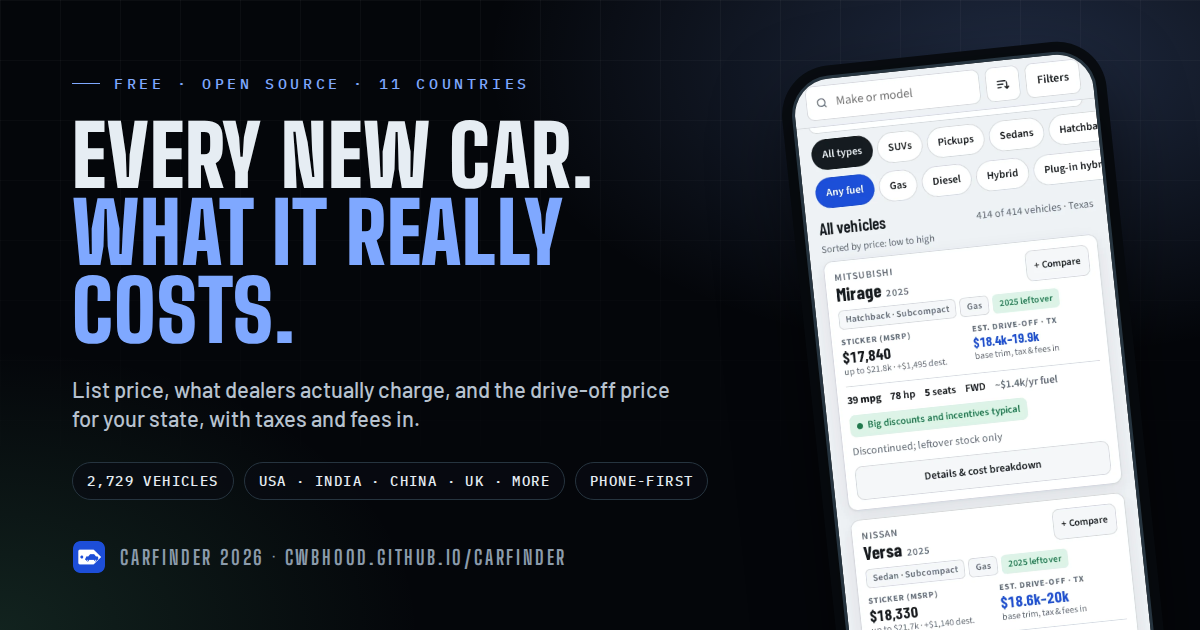
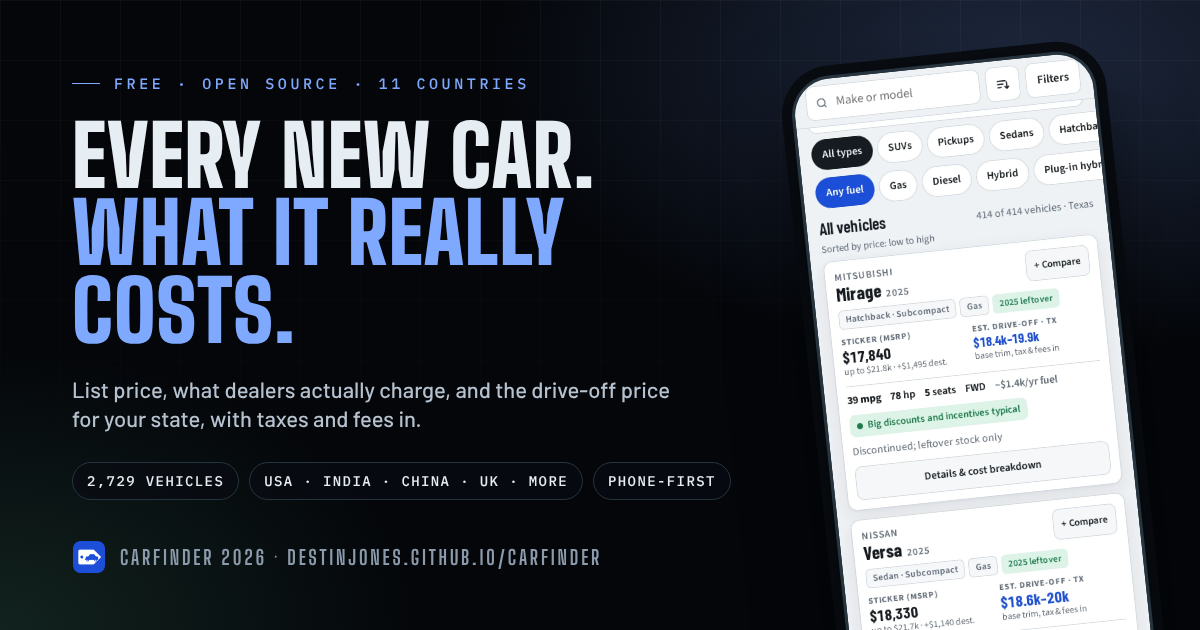
Switch GitHub username cwbhood to destinjones (#1)
Updates site, README, citation and build links, rebuilds carfinder.html
and re-renders the social card, which showed cwbhood.github.io/carfinder.

Claude-Session: https://claude.ai/code/session_01QohTuXHP1CFsDijBaxGX9V

diff --git a/about.html b/about.html
@@ -8,32 +8,32 @@
 <meta name="description" content="Destin Jones vibe coded CarFinder with Claude: a free, open source car finder for 11 countries with list, dealer and drive-off prices. He also created Open Overwatch and Ironbound, all built in public.">
 <meta name="author" content="Destin Jones">
 <meta name="robots" content="index, follow, max-image-preview:large">
-<link rel="canonical" href="https://cwbhood.github.io/carfinder/about.html">
+<link rel="canonical" href="https://destinjones.github.io/carfinder/about.html">
 <link rel="icon" href="brand/emblem/favicon.svg" type="image/svg+xml">
 <link rel="apple-touch-icon" href="brand/emblem/apple-touch-icon.png">
 <meta property="og:type" content="profile">
 <meta property="og:site_name" content="CarFinder 2026">
 <meta property="og:title" content="About the creator, Destin Jones | CarFinder 2026">
 <meta property="og:description" content="Destin Jones builds free, open source projects in public with Claude as the building partner: CarFinder, Open Overwatch and Ironbound.">
-<meta property="og:url" content="https://cwbhood.github.io/carfinder/about.html">
-<meta property="og:image" content="https://cwbhood.github.io/carfinder/brand/social/og-1200x630.png">
+<meta property="og:url" content="https://destinjones.github.io/carfinder/about.html">
+<meta property="og:image" content="https://destinjones.github.io/carfinder/brand/social/og-1200x630.png">
 <meta property="og:image:width" content="1200"><meta property="og:image:height" content="630">
-<meta property="profile:username" content="cwbhood">
+<meta property="profile:username" content="destinjones">
 <meta name="twitter:card" content="summary_large_image">
 <meta name="twitter:title" content="About the creator, Destin Jones | CarFinder 2026">
 <meta name="twitter:description" content="Open source projects vibe coded with Claude, built in public: CarFinder, Open Overwatch and Ironbound.">
-<meta name="twitter:image" content="https://cwbhood.github.io/carfinder/brand/social/og-1200x630.png">
+<meta name="twitter:image" content="https://destinjones.github.io/carfinder/brand/social/og-1200x630.png">
 <script type="application/ld+json">
 {"@context":"https://schema.org","@graph":[
- {"@type":"Person","@id":"https://cwbhood.github.io/carfinder/about.html#destin","name":"Destin Jones","url":"https://cwbhood.github.io/carfinder/about.html",
-  "image":"https://cwbhood.github.io/carfinder/brand/about/destin-640.webp",
+ {"@type":"Person","@id":"https://destinjones.github.io/carfinder/about.html#destin","name":"Destin Jones","url":"https://destinjones.github.io/carfinder/about.html",
+  "image":"https://destinjones.github.io/carfinder/brand/about/destin-640.webp",
   "description":"Creator of the open source projects CarFinder, Open Overwatch and Ironbound, vibe coded in public with Claude as the building partner.",
-  "sameAs":["https://github.com/cwbhood","https://cwbhood.github.io/open-overwatch/about.html","https://cwbhood.github.io/godot-open-rts/about.html"],
+  "sameAs":["https://github.com/destinjones","https://destinjones.github.io/open-overwatch/about.html","https://destinjones.github.io/godot-open-rts/about.html"],
   "knowsAbout":["open source software","AI-assisted software development","web applications","Godot Engine","web mapping"]},
- {"@type":"WebApplication","name":"CarFinder 2026","applicationCategory":"ReferenceApplication","operatingSystem":"Any (web browser)","url":"https://cwbhood.github.io/carfinder/",
-  "description":"Every new car and truck on sale in 11 countries with list, dealer and on-road prices for the buyer's state or city.","offers":{"@type":"Offer","price":"0","priceCurrency":"USD"},"creator":{"@id":"https://cwbhood.github.io/carfinder/about.html#destin"},
-  "codeRepository":"https://github.com/cwbhood/carfinder","license":"https://opensource.org/licenses/MIT"},
- {"@type":"BreadcrumbList","itemListElement":[{"@type":"ListItem","position":1,"name":"CarFinder 2026","item":"https://cwbhood.github.io/carfinder/"},{"@type":"ListItem","position":2,"name":"About the creator","item":"https://cwbhood.github.io/carfinder/about.html"}]}
+ {"@type":"WebApplication","name":"CarFinder 2026","applicationCategory":"ReferenceApplication","operatingSystem":"Any (web browser)","url":"https://destinjones.github.io/carfinder/",
+  "description":"Every new car and truck on sale in 11 countries with list, dealer and on-road prices for the buyer's state or city.","offers":{"@type":"Offer","price":"0","priceCurrency":"USD"},"creator":{"@id":"https://destinjones.github.io/carfinder/about.html#destin"},
+  "codeRepository":"https://github.com/destinjones/carfinder","license":"https://opensource.org/licenses/MIT"},
+ {"@type":"BreadcrumbList","itemListElement":[{"@type":"ListItem","position":1,"name":"CarFinder 2026","item":"https://destinjones.github.io/carfinder/"},{"@type":"ListItem","position":2,"name":"About the creator","item":"https://destinjones.github.io/carfinder/about.html"}]}
 ]}
 </script>
 <link rel="stylesheet" href="brand/fonts/fonts.css">
@@ -101,7 +101,7 @@ footer .wrap{display:grid;grid-template-columns:1fr 1fr;gap:30px} footer p{margi
 <nav aria-label="Main">
   <div class="wrap">
     <a class="brand" href="./"><img src="brand/emblem/emblem-256.png" alt="">CarFinder</a>
-    <div class="links"><a href="index.html#features">Features</a><a href="index.html#how">How to use</a><a href="about.html" aria-current="page">About</a><a href="https://github.com/cwbhood/carfinder">GitHub</a><a class="go" href="carfinder.html">Open CarFinder</a></div>
+    <div class="links"><a href="index.html#features">Features</a><a href="index.html#how">How to use</a><a href="about.html" aria-current="page">About</a><a href="https://github.com/destinjones/carfinder">GitHub</a><a class="go" href="carfinder.html">Open CarFinder</a></div>
   </div>
 </nav>
 
@@ -116,9 +116,9 @@ footer .wrap{display:grid;grid-template-columns:1fr 1fr;gap:30px} footer p{margi
       <p class="lede">CarFinder was vibe coded using Claude. I set the direction and make the calls, Claude researches and builds it, and all of it ships in the open so anyone can read it, fork it and take it further.</p>
       <div class="cta">
         <a class="btn primary" href="carfinder.html">Open CarFinder</a>
-        <a class="btn" href="https://cwbhood.github.io/open-overwatch/">Open Overwatch</a>
-        <a class="btn" href="https://cwbhood.github.io/godot-open-rts/">Play Ironbound</a>
-        <a class="btn" href="https://github.com/cwbhood">GitHub profile</a>
+        <a class="btn" href="https://destinjones.github.io/open-overwatch/">Open Overwatch</a>
+        <a class="btn" href="https://destinjones.github.io/godot-open-rts/">Play Ironbound</a>
+        <a class="btn" href="https://github.com/destinjones">GitHub profile</a>
       </div>
     </div>
     <figure class="portrait">
@@ -146,19 +146,19 @@ footer .wrap{display:grid;grid-template-columns:1fr 1fr;gap:30px} footer p{margi
         <span class="tag">Open source · web app · 2026</span>
         <h3>CarFinder 2026</h3>
         <p>Every new car and truck on sale in the USA, India, China, the UK, Australia, Mexico, Spain, Thailand, Russia, Brazil and Canada: list price, what dealers actually charge, and the drive-off price for your state with taxes and fees in. Filters, a four-question helper, cost breakdowns, compare, MPG and miles for everyone. One page, no account.</p>
-        <div class="row"><a class="lnk" href="carfinder.html">Open it</a><a class="lnk" href="https://github.com/cwbhood/carfinder">Source</a><a class="lnk" href="index.html#how">How to use</a></div>
+        <div class="row"><a class="lnk" href="carfinder.html">Open it</a><a class="lnk" href="https://github.com/destinjones/carfinder">Source</a><a class="lnk" href="index.html#how">How to use</a></div>
       </article>
       <article class="card" style="--c:var(--ow)">
         <span class="tag">Open source · live map · 2026</span>
         <h3>Open Overwatch</h3>
         <p>A live view of the whole planet on open data: aircraft, satellites, weather, quakes, and one continuous zoom from a street out through the Solar System and the cosmic web to the Local Group. A 2D map, a 3D Earth and a Solar System view, on a phone or a PC, with no account and no tracking.</p>
-        <div class="row"><a class="lnk" href="https://cwbhood.github.io/open-overwatch/">Website</a><a class="lnk" href="https://github.com/cwbhood/open-overwatch">Source</a><a class="lnk" href="https://cwbhood.github.io/open-overwatch/about.html">About Open Overwatch</a></div>
+        <div class="row"><a class="lnk" href="https://destinjones.github.io/open-overwatch/">Website</a><a class="lnk" href="https://github.com/destinjones/open-overwatch">Source</a><a class="lnk" href="https://destinjones.github.io/open-overwatch/about.html">About Open Overwatch</a></div>
       </article>
       <article class="card" style="--c:var(--mil)">
         <span class="tag">Open source · game · Godot 4.7</span>
         <h3>Ironbound</h3>
         <p>A free real-time strategy game where the city builds itself. You run the mines and oil derricks, the supply lines and power, trade with rival factions, and the army that holds the frontier. A fork of Open RTS, now a game with a self-building city, trade, diplomacy, weather and a scripted test harness.</p>
-        <div class="row"><a class="lnk" href="https://cwbhood.github.io/godot-open-rts/">Website</a><a class="lnk" href="https://github.com/cwbhood/godot-open-rts">Source</a><a class="lnk" href="https://cwbhood.github.io/godot-open-rts/about.html">About Ironbound</a></div>
+        <div class="row"><a class="lnk" href="https://destinjones.github.io/godot-open-rts/">Website</a><a class="lnk" href="https://github.com/destinjones/godot-open-rts">Source</a><a class="lnk" href="https://destinjones.github.io/godot-open-rts/about.html">About Ironbound</a></div>
       </article>
     </div>
     <div class="stats" aria-label="CarFinder by the numbers">
@@ -178,7 +178,7 @@ footer .wrap{display:grid;grid-template-columns:1fr 1fr;gap:30px} footer p{margi
       <div><h3>Open by default</h3><p>Code, data, tax research notes, tests and design notes live in the repository. Anyone can read how a number was computed, and why.</p></div>
       <div><h3>Vibe coded with Claude</h3><p>Claude does the research and the heavy lifting on code and content. A person sets the goals, reviews the work and owns the decisions, including what ships and when.</p></div>
       <div><h3>Small, testable steps</h3><p>Every dataset row is validated, the pricing core is run for every car in every region, known real-world quotes are asserted, and the page is driven headlessly at phone and desktop widths before it ships.</p></div>
-      <div><h3>Honest about the numbers</h3><p>Dealer prices are bands, taxes follow the published rules on the compile date, exchange rates are dated, and each tab ends with a plain-language note on what was assumed. Wrong price? <a href="https://github.com/cwbhood/carfinder/issues">Open an issue.</a></p></div>
+      <div><h3>Honest about the numbers</h3><p>Dealer prices are bands, taxes follow the published rules on the compile date, exchange rates are dated, and each tab ends with a plain-language note on what was assumed. Wrong price? <a href="https://github.com/destinjones/carfinder/issues">Open an issue.</a></p></div>
     </div>
   </div>
 </section>
@@ -188,11 +188,11 @@ footer .wrap{display:grid;grid-template-columns:1fr 1fr;gap:30px} footer p{margi
     <div class="eyebrow">Use it, credit it</div>
     <h2 id="credit-h">Credit and contact</h2>
     <p class="note">CarFinder is free to use, read, fork and build on under the MIT licence. All that is asked is that the copyright line stays with the code. If you write about it, teach with it or build on it, please credit it like this:</p>
-    <pre class="cite" tabindex="0">Jones, D. (2026). CarFinder 2026 [Computer software]. https://github.com/cwbhood/carfinder</pre>
-    <p class="note">The repository has a <a href="https://github.com/cwbhood/carfinder/blob/main/CITATION.cff">CITATION.cff</a>, so GitHub's “Cite this repository” button gives the same reference in BibTeX and APA. Vehicle prices and specifications belong to their manufacturers and are compiled here for reference; the fonts are under the SIL Open Font License.</p>
+    <pre class="cite" tabindex="0">Jones, D. (2026). CarFinder 2026 [Computer software]. https://github.com/destinjones/carfinder</pre>
+    <p class="note">The repository has a <a href="https://github.com/destinjones/carfinder/blob/main/CITATION.cff">CITATION.cff</a>, so GitHub's “Cite this repository” button gives the same reference in BibTeX and APA. Vehicle prices and specifications belong to their manufacturers and are compiled here for reference; the fonts are under the SIL Open Font License.</p>
     <div class="cta">
-      <a class="btn" href="https://github.com/cwbhood">Find me on GitHub</a>
-      <a class="btn" href="https://github.com/cwbhood/carfinder/issues">Report a wrong price or suggest something</a>
+      <a class="btn" href="https://github.com/destinjones">Find me on GitHub</a>
+      <a class="btn" href="https://github.com/destinjones/carfinder/issues">Report a wrong price or suggest something</a>
     </div>
   </div>
 </section>
@@ -206,8 +206,8 @@ footer .wrap{display:grid;grid-template-columns:1fr 1fr;gap:30px} footer p{margi
     </div>
     <div>
       <p><a href="./">Home</a> · <a href="carfinder.html">Open CarFinder</a> · <a href="index.html#how">How to use</a> · <a href="index.html#countries">Countries</a></p>
-      <p><a href="https://github.com/cwbhood/carfinder">Source on GitHub</a> · <a href="https://github.com/cwbhood/carfinder/issues">Report a wrong price</a> · <a href="https://github.com/cwbhood/carfinder/blob/main/LICENSE">MIT licence</a></p>
-      <p>Also by me: <a href="https://cwbhood.github.io/open-overwatch/">Open Overwatch</a> and <a href="https://cwbhood.github.io/godot-open-rts/">Ironbound</a>.</p>
+      <p><a href="https://github.com/destinjones/carfinder">Source on GitHub</a> · <a href="https://github.com/destinjones/carfinder/issues">Report a wrong price</a> · <a href="https://github.com/destinjones/carfinder/blob/main/LICENSE">MIT licence</a></p>
+      <p>Also by me: <a href="https://destinjones.github.io/open-overwatch/">Open Overwatch</a> and <a href="https://destinjones.github.io/godot-open-rts/">Ironbound</a>.</p>
     </div>
   </div>
 </footer>

diff --git a/index.html b/index.html
@@ -5,7 +5,7 @@
 <meta name="viewport" content="width=device-width, initial-scale=1, viewport-fit=cover">
 <meta name="theme-color" content="#04060a">
 <title>CarFinder 2026 · every new car, what it really costs</title>
-<link rel="canonical" href="https://cwbhood.github.io/carfinder/">
+<link rel="canonical" href="https://destinjones.github.io/carfinder/">
 <meta name="robots" content="index, follow, max-image-preview:large">
 <meta name="author" content="Destin Jones">
 <meta name="description" content="A free, open source car finder for 11 countries: every new car and truck on sale with its list price, what dealers really charge, and the drive-off price for your state or city with taxes and fees in. Filters, compare, MPG and EV range. No account, no ads.">
@@ -13,22 +13,22 @@
 <link rel="apple-touch-icon" href="brand/emblem/apple-touch-icon.png">
 <meta property="og:type" content="website">
 <meta property="og:site_name" content="CarFinder 2026">
-<meta property="og:url" content="https://cwbhood.github.io/carfinder/">
+<meta property="og:url" content="https://destinjones.github.io/carfinder/">
 <meta property="og:title" content="CarFinder 2026 · every new car, what it really costs">
 <meta property="og:description" content="2,729 new cars and trucks across 11 countries: list price, dealer price, and the drive-off price for your state with taxes and fees in. Free, open source, runs in your browser.">
-<meta property="og:image" content="https://cwbhood.github.io/carfinder/brand/social/og-1200x630.png">
+<meta property="og:image" content="https://destinjones.github.io/carfinder/brand/social/og-1200x630.png">
 <meta property="og:image:width" content="1200"><meta property="og:image:height" content="630">
 <meta property="og:image:alt" content="CarFinder 2026: a phone showing the US car list with sticker and drive-off prices">
 <meta name="twitter:card" content="summary_large_image">
 <meta name="twitter:title" content="CarFinder 2026 · every new car, what it really costs">
 <meta name="twitter:description" content="2,729 new cars and trucks across 11 countries with list, dealer and drive-off prices for your state. Free, open source, in your browser.">
-<meta name="twitter:image" content="https://cwbhood.github.io/carfinder/brand/social/og-1200x630.png">
+<meta name="twitter:image" content="https://destinjones.github.io/carfinder/brand/social/og-1200x630.png">
 <script type="application/ld+json">
 {"@context":"https://schema.org","@graph":[
- {"@type":"WebSite","@id":"https://cwbhood.github.io/carfinder/#site","name":"CarFinder 2026","url":"https://cwbhood.github.io/carfinder/","description":"Every new car and truck on sale in 11 countries with list, dealer and on-road prices for your state or city.","publisher":{"@id":"https://cwbhood.github.io/carfinder/about.html#destin"}},
- {"@type":"WebApplication","name":"CarFinder 2026","applicationCategory":"ReferenceApplication","operatingSystem":"Any (web browser)","url":"https://cwbhood.github.io/carfinder/carfinder.html","offers":{"@type":"Offer","price":"0","priceCurrency":"USD"},
-  "description":"2,729 new cars and trucks across the USA, India, China, the UK, Australia, Mexico, Spain, Thailand, Russia, Brazil and Canada, each with list price, typical dealer price and an estimated on-road price for the buyer's state or city.","codeRepository":"https://github.com/cwbhood/carfinder","license":"https://opensource.org/licenses/MIT","creator":{"@id":"https://cwbhood.github.io/carfinder/about.html#destin"},"screenshot":"https://cwbhood.github.io/carfinder/brand/social/og-1200x630.png"},
- {"@type":"Person","@id":"https://cwbhood.github.io/carfinder/about.html#destin","name":"Destin Jones","url":"https://cwbhood.github.io/carfinder/about.html","sameAs":["https://github.com/cwbhood","https://cwbhood.github.io/open-overwatch/about.html"]}
+ {"@type":"WebSite","@id":"https://destinjones.github.io/carfinder/#site","name":"CarFinder 2026","url":"https://destinjones.github.io/carfinder/","description":"Every new car and truck on sale in 11 countries with list, dealer and on-road prices for your state or city.","publisher":{"@id":"https://destinjones.github.io/carfinder/about.html#destin"}},
+ {"@type":"WebApplication","name":"CarFinder 2026","applicationCategory":"ReferenceApplication","operatingSystem":"Any (web browser)","url":"https://destinjones.github.io/carfinder/carfinder.html","offers":{"@type":"Offer","price":"0","priceCurrency":"USD"},
+  "description":"2,729 new cars and trucks across the USA, India, China, the UK, Australia, Mexico, Spain, Thailand, Russia, Brazil and Canada, each with list price, typical dealer price and an estimated on-road price for the buyer's state or city.","codeRepository":"https://github.com/destinjones/carfinder","license":"https://opensource.org/licenses/MIT","creator":{"@id":"https://destinjones.github.io/carfinder/about.html#destin"},"screenshot":"https://destinjones.github.io/carfinder/brand/social/og-1200x630.png"},
+ {"@type":"Person","@id":"https://destinjones.github.io/carfinder/about.html#destin","name":"Destin Jones","url":"https://destinjones.github.io/carfinder/about.html","sameAs":["https://github.com/destinjones","https://destinjones.github.io/open-overwatch/about.html"]}
 ]}
 </script>
 <link rel="stylesheet" href="brand/fonts/fonts.css">
@@ -142,7 +142,7 @@ footer .wrap{display:grid;grid-template-columns:1fr 1fr;gap:30px} footer p{margi
 <nav aria-label="Main">
   <div class="wrap">
     <a class="brand" href="./"><img src="brand/emblem/emblem-256.png" alt="">CarFinder</a>
-    <div class="links"><a href="#features">Features</a><a href="#how">How to use</a><a href="#countries">Countries</a><a href="about.html">About</a><a href="https://github.com/cwbhood/carfinder">GitHub</a><a class="go" href="carfinder.html">Open CarFinder</a></div>
+    <div class="links"><a href="#features">Features</a><a href="#how">How to use</a><a href="#countries">Countries</a><a href="about.html">About</a><a href="https://github.com/destinjones/carfinder">GitHub</a><a class="go" href="carfinder.html">Open CarFinder</a></div>
   </div>
 </nav>
 
@@ -158,12 +158,12 @@ footer .wrap{display:grid;grid-template-columns:1fr 1fr;gap:30px} footer p{margi
       <div class="cta">
         <a class="btn primary" href="carfinder.html">Open CarFinder</a>
         <a class="btn" href="#how">How to use it</a>
-        <a class="btn" href="https://github.com/cwbhood/carfinder">Source on GitHub</a>
+        <a class="btn" href="https://github.com/destinjones/carfinder">Source on GitHub</a>
       </div>
       <p class="fine">Prices compiled 29 September 2026 · estimates to bargain within, not quotes</p>
     </div>
     <div class="devices" aria-hidden="true">
-      <div class="browser"><div class="bar"><i></i><i></i><i></i><span>cwbhood.github.io/carfinder</span></div><img src="brand/shots/desktop-us.webp" width="1280" height="800" alt="" fetchpriority="high"></div>
+      <div class="browser"><div class="bar"><i></i><i></i><i></i><span>destinjones.github.io/carfinder</span></div><img src="brand/shots/desktop-us.webp" width="1280" height="800" alt="" fetchpriority="high"></div>
       <div class="phone"><img src="brand/shots/phone-us-dark.webp" width="390" height="844" alt="" loading="lazy"></div>
     </div>
   </div>
@@ -267,13 +267,13 @@ footer .wrap{display:grid;grid-template-columns:1fr 1fr;gap:30px} footer p{margi
       <div><h3>Estimates, labelled as estimates</h3><p>Dealer prices are bands by demand level, not quotes. Taxes follow the published rules on the compile date. Every tab ends with a plain-language note on what was assumed, and models with provisional pricing carry a <em>Preliminary</em> tag.</p></div>
     </div>
     <div style="margin-top:34px">
-      <pre class="code" tabindex="0">git clone https://github.com/cwbhood/carfinder
+      <pre class="code" tabindex="0">git clone https://github.com/destinjones/carfinder
 cd carfinder
 node src/build.js        # stitches src/ + data/ into carfinder.html
 node --test              # schema checks, pricing core, known quotes
 python3 -m http.server   # then open http://localhost:8000/</pre>
     </div>
-    <p class="warn"><b>Use it as a starting point, not a quote.</b> Prices were compiled on 29 September 2026 from manufacturer price lists and the main listing sites in each country; incentives, fuel prices and exchange rates move monthly and tax rules change with budgets. Always get the out-the-door price in writing from two or three dealers. If you spot a wrong price or rate, <a href="https://github.com/cwbhood/carfinder/issues">open an issue</a> or fix the JSON and send a pull request.</p>
+    <p class="warn"><b>Use it as a starting point, not a quote.</b> Prices were compiled on 29 September 2026 from manufacturer price lists and the main listing sites in each country; incentives, fuel prices and exchange rates move monthly and tax rules change with budgets. Always get the out-the-door price in writing from two or three dealers. If you spot a wrong price or rate, <a href="https://github.com/destinjones/carfinder/issues">open an issue</a> or fix the JSON and send a pull request.</p>
   </div>
 </section>
 
@@ -286,10 +286,10 @@ python3 -m http.server   # then open http://localhost:8000/</pre>
       <div class="eyebrow">Made in the open</div>
       <h2 id="maker-h">By Destin Jones</h2>
       <p class="lede">I vibe coded CarFinder with Claude. I had the question every first-time buyer has, “what will this actually cost me?”, and instead of googling it fifty times I described the tool I wanted and we built it together: I set the direction and made the calls, Claude did the research and the heavy lifting on the code, and all of it ships here in the open.</p>
-      <p class="sub">Same way I built <a href="https://cwbhood.github.io/open-overwatch/">Open Overwatch</a>, a live map of the whole planet, and <a href="https://cwbhood.github.io/godot-open-rts/">Ironbound</a>, an open source RTS. Read it, fork it, fix a price, take it further.</p>
+      <p class="sub">Same way I built <a href="https://destinjones.github.io/open-overwatch/">Open Overwatch</a>, a live map of the whole planet, and <a href="https://destinjones.github.io/godot-open-rts/">Ironbound</a>, an open source RTS. Read it, fork it, fix a price, take it further.</p>
       <div class="cta">
         <a class="btn primary" href="about.html">About the creator</a>
-        <a class="btn" href="https://github.com/cwbhood">GitHub profile</a>
+        <a class="btn" href="https://github.com/destinjones">GitHub profile</a>
       </div>
     </div>
   </div>
@@ -304,8 +304,8 @@ python3 -m http.server   # then open http://localhost:8000/</pre>
     </div>
     <div>
       <p><a href="carfinder.html">Open CarFinder</a> · <a href="#how">How to use</a> · <a href="#countries">Countries</a> · <a href="about.html">About</a></p>
-      <p><a href="https://github.com/cwbhood/carfinder">Source on GitHub</a> · <a href="https://github.com/cwbhood/carfinder/issues">Report a wrong price</a> · <a href="https://github.com/cwbhood/carfinder/blob/main/LICENSE">MIT licence</a></p>
-      <p>Also by me: <a href="https://cwbhood.github.io/open-overwatch/">Open Overwatch</a> and <a href="https://cwbhood.github.io/godot-open-rts/">Ironbound</a>.</p>
+      <p><a href="https://github.com/destinjones/carfinder">Source on GitHub</a> · <a href="https://github.com/destinjones/carfinder/issues">Report a wrong price</a> · <a href="https://github.com/destinjones/carfinder/blob/main/LICENSE">MIT licence</a></p>
+      <p>Also by me: <a href="https://destinjones.github.io/open-overwatch/">Open Overwatch</a> and <a href="https://destinjones.github.io/godot-open-rts/">Ironbound</a>.</p>
     </div>
   </div>
 </footer>

diff --git a/carfinder.html b/carfinder.html
@@ -9,23 +9,23 @@
 <meta name="description" content="Every new car and truck on sale in the USA, India, China, the UK, Australia, Mexico, Spain, Thailand, Russia, Brazil and Canada: list price, what dealers really charge, and the on-road price for your state or city. Filters, compare, MPG and EV range. Free, open source, no account.">
 <meta name="author" content="Destin Jones">
 <meta name="robots" content="index, follow, max-image-preview:large">
-<link rel="canonical" href="https://cwbhood.github.io/carfinder/carfinder.html">
+<link rel="canonical" href="https://destinjones.github.io/carfinder/carfinder.html">
 <link rel="icon" href="brand/emblem/favicon.svg" type="image/svg+xml">
 <link rel="apple-touch-icon" href="brand/emblem/apple-touch-icon.png">
 <meta property="og:type" content="website">
 <meta property="og:site_name" content="CarFinder 2026">
-<meta property="og:url" content="https://cwbhood.github.io/carfinder/carfinder.html">
+<meta property="og:url" content="https://destinjones.github.io/carfinder/carfinder.html">
 <meta property="og:title" content="CarFinder 2026 · every new car, what it really costs">
 <meta property="og:description" content="Every new car and truck on sale in the USA, India, China, the UK, Australia, Mexico, Spain, Thailand, Russia, Brazil and Canada: list price, what dealers really charge, and the on-road price for your state or city. Filters, compare, MPG and EV range. Free, open source, no account.">
-<meta property="og:image" content="https://cwbhood.github.io/carfinder/brand/social/og-1200x630.png">
+<meta property="og:image" content="https://destinjones.github.io/carfinder/brand/social/og-1200x630.png">
 <meta property="og:image:width" content="1200"><meta property="og:image:height" content="630">
 <meta name="twitter:card" content="summary_large_image">
 <meta name="twitter:title" content="CarFinder 2026 · every new car, what it really costs">
 <meta name="twitter:description" content="Every new car and truck on sale in the USA, India, China, the UK, Australia, Mexico, Spain, Thailand, Russia, Brazil and Canada: list price, what dealers really charge, and the on-road price for your state or city. Filters, compare, MPG and EV range. Free, open source, no account.">
-<meta name="twitter:image" content="https://cwbhood.github.io/carfinder/brand/social/og-1200x630.png">
+<meta name="twitter:image" content="https://destinjones.github.io/carfinder/brand/social/og-1200x630.png">
 <link rel="stylesheet" href="brand/fonts/fonts.css">
 <script type="application/ld+json">
-{"@context":"https://schema.org","@type":"WebApplication","name":"CarFinder 2026","url":"https://cwbhood.github.io/carfinder/carfinder.html","applicationCategory":"ReferenceApplication","operatingSystem":"Any (web browser)","browserRequirements":"Requires JavaScript","offers":{"@type":"Offer","price":"0","priceCurrency":"USD"},"description":"Every new car and truck on sale in the USA, India, China, the UK, Australia, Mexico, Spain, Thailand, Russia, Brazil and Canada: list price, what dealers really charge, and the on-road price for your state or city. Filters, compare, MPG and EV range. Free, open source, no account.","creator":{"@type":"Person","name":"Destin Jones","url":"https://cwbhood.github.io/carfinder/about.html"},"codeRepository":"https://github.com/cwbhood/carfinder","license":"https://opensource.org/licenses/MIT"}
+{"@context":"https://schema.org","@type":"WebApplication","name":"CarFinder 2026","url":"https://destinjones.github.io/carfinder/carfinder.html","applicationCategory":"ReferenceApplication","operatingSystem":"Any (web browser)","browserRequirements":"Requires JavaScript","offers":{"@type":"Offer","price":"0","priceCurrency":"USD"},"description":"Every new car and truck on sale in the USA, India, China, the UK, Australia, Mexico, Spain, Thailand, Russia, Brazil and Canada: list price, what dealers really charge, and the on-road price for your state or city. Filters, compare, MPG and EV range. Free, open source, no account.","creator":{"@type":"Person","name":"Destin Jones","url":"https://destinjones.github.io/carfinder/about.html"},"codeRepository":"https://github.com/destinjones/carfinder","license":"https://opensource.org/licenses/MIT"}
 </script>
 </head>
 <body>
@@ -513,7 +513,7 @@ footer.about h2{font-size:20px;font-weight:600;color:var(--fg)}
       <div class="more-row" id="moreRow" hidden><button class="btn" id="btnMore" type="button">Show more</button></div>
       <div class="empty" id="empty" hidden>Nothing matches those filters. Loosen the price range or clear a filter.</div>
       <footer class="about" id="about"></footer>
-      <p class="site-links">CarFinder is free and open source. <a href="./">Project site</a> · <a href="https://github.com/cwbhood/carfinder">Source on GitHub</a> · <a href="about.html">About the creator</a> · <a href="https://github.com/cwbhood/carfinder/issues">Report a wrong price</a></p>
+      <p class="site-links">CarFinder is free and open source. <a href="./">Project site</a> · <a href="https://github.com/destinjones/carfinder">Source on GitHub</a> · <a href="about.html">About the creator</a> · <a href="https://github.com/destinjones/carfinder/issues">Report a wrong price</a></p>
     </main>
   </div>
 </div>

diff --git a/src/build.js b/src/build.js
@@ -12,7 +12,7 @@ const path = require('path');
 const ROOT = path.resolve(__dirname, '..');
 const read = p => fs.readFileSync(path.join(ROOT, p), 'utf8');
 
-const SITE = 'https://cwbhood.github.io/carfinder/';
+const SITE = 'https://destinjones.github.io/carfinder/';
 const DESC = 'Every new car and truck on sale in the USA, India, China, the UK, Australia, Mexico, Spain, Thailand, Russia, Brazil and Canada: list price, what dealers really charge, and the on-road price for your state or city. Filters, compare, MPG and EV range. Free, open source, no account.';
 
 function assemble(){
@@ -62,7 +62,7 @@ function page(body){
 <meta name="twitter:image" content="${SITE}brand/social/og-1200x630.png">
 <link rel="stylesheet" href="brand/fonts/fonts.css">
 <script type="application/ld+json">
-{"@context":"https://schema.org","@type":"WebApplication","name":"CarFinder 2026","url":"${SITE}carfinder.html","applicationCategory":"ReferenceApplication","operatingSystem":"Any (web browser)","browserRequirements":"Requires JavaScript","offers":{"@type":"Offer","price":"0","priceCurrency":"USD"},"description":"${DESC}","creator":{"@type":"Person","name":"Destin Jones","url":"${SITE}about.html"},"codeRepository":"https://github.com/cwbhood/carfinder","license":"https://opensource.org/licenses/MIT"}
+{"@context":"https://schema.org","@type":"WebApplication","name":"CarFinder 2026","url":"${SITE}carfinder.html","applicationCategory":"ReferenceApplication","operatingSystem":"Any (web browser)","browserRequirements":"Requires JavaScript","offers":{"@type":"Offer","price":"0","priceCurrency":"USD"},"description":"${DESC}","creator":{"@type":"Person","name":"Destin Jones","url":"${SITE}about.html"},"codeRepository":"https://github.com/destinjones/carfinder","license":"https://opensource.org/licenses/MIT"}
 </script>
 </head>
 <body>

diff --git a/src/head.html b/src/head.html
@@ -482,7 +482,7 @@ footer.about h2{font-size:20px;font-weight:600;color:var(--fg)}
       <div class="more-row" id="moreRow" hidden><button class="btn" id="btnMore" type="button">Show more</button></div>
       <div class="empty" id="empty" hidden>Nothing matches those filters. Loosen the price range or clear a filter.</div>
       <footer class="about" id="about"></footer>
-      <p class="site-links">CarFinder is free and open source. <a href="./">Project site</a> · <a href="https://github.com/cwbhood/carfinder">Source on GitHub</a> · <a href="about.html">About the creator</a> · <a href="https://github.com/cwbhood/carfinder/issues">Report a wrong price</a></p>
+      <p class="site-links">CarFinder is free and open source. <a href="./">Project site</a> · <a href="https://github.com/destinjones/carfinder">Source on GitHub</a> · <a href="about.html">About the creator</a> · <a href="https://github.com/destinjones/carfinder/issues">Report a wrong price</a></p>
     </main>
   </div>
 </div>

diff --git a/brand/tools/og.html b/brand/tools/og.html
@@ -34,7 +34,7 @@
     <div class="chips"><span>2,729 vehicles</span><span>USA · India · China · UK · more</span><span>Phone-first</span></div>
   </div>
   <div class="phone"><img src="../shots/phone-us-light.webp" alt=""></div>
-  <div class="emblem"><img src="../emblem/emblem-256.png" alt="">CarFinder 2026 · cwbhood.github.io/carfinder</div>
+  <div class="emblem"><img src="../emblem/emblem-256.png" alt="">CarFinder 2026 · destinjones.github.io/carfinder</div>
 </div>
 </body>
 </html>

diff --git a/README.md b/README.md
@@ -7,7 +7,7 @@ model right now, and the drive-off price for your state or city once taxes and f
 the USA, India, China, the UK, Australia, Mexico, Spain, Thailand, Russia, Brazil and Canada. It runs in your browser
 (phones too), with no install, no account, no ads and no tracking.
 
-**▶ [Website](https://cwbhood.github.io/carfinder/) · [Open CarFinder](https://cwbhood.github.io/carfinder/carfinder.html) · [How to use it](https://cwbhood.github.io/carfinder/#how) · [About the creator](https://cwbhood.github.io/carfinder/about.html)**
+**▶ [Website](https://destinjones.github.io/carfinder/) · [Open CarFinder](https://destinjones.github.io/carfinder/carfinder.html) · [How to use it](https://destinjones.github.io/carfinder/#how) · [About the creator](https://destinjones.github.io/carfinder/about.html)**
 
 ## What you can do
 - **See three prices, not one.** Every card shows the maker's price from base to top trim, the band dealers really sell
@@ -83,13 +83,13 @@ countries are welcome too: see [CONTRIBUTING.md](CONTRIBUTING.md) for the adapte
 formatter, a region table and one breakdown function).
 
 ## Credit and licence
-CarFinder is by [Destin Jones](https://cwbhood.github.io/carfinder/about.html) ([GitHub](https://github.com/cwbhood)),
+CarFinder is by [Destin Jones](https://destinjones.github.io/carfinder/about.html) ([GitHub](https://github.com/destinjones)),
 vibe coded in public with Claude as the building partner. Also by me:
-[Open Overwatch](https://cwbhood.github.io/open-overwatch/), a live map of the whole planet, and
-[Ironbound](https://cwbhood.github.io/godot-open-rts/), a free open source RTS made with Godot.
+[Open Overwatch](https://destinjones.github.io/open-overwatch/), a live map of the whole planet, and
+[Ironbound](https://destinjones.github.io/godot-open-rts/), a free open source RTS made with Godot.
 
 The code and data are MIT licensed ([LICENSE](LICENSE)): use it, fork it, build on it, and keep the copyright line.
 Vehicle prices and specifications belong to their manufacturers and are compiled here for reference. The fonts are
 under the SIL Open Font License ([brand/fonts/](brand/fonts/)).
 If you write about it or build on it, please credit it: *Jones, D. (2026). CarFinder 2026 [Computer software].
-https://github.com/cwbhood/carfinder* (GitHub's "Cite this repository" button reads [CITATION.cff](CITATION.cff)).
+https://github.com/destinjones/carfinder* (GitHub's "Cite this repository" button reads [CITATION.cff](CITATION.cff)).
